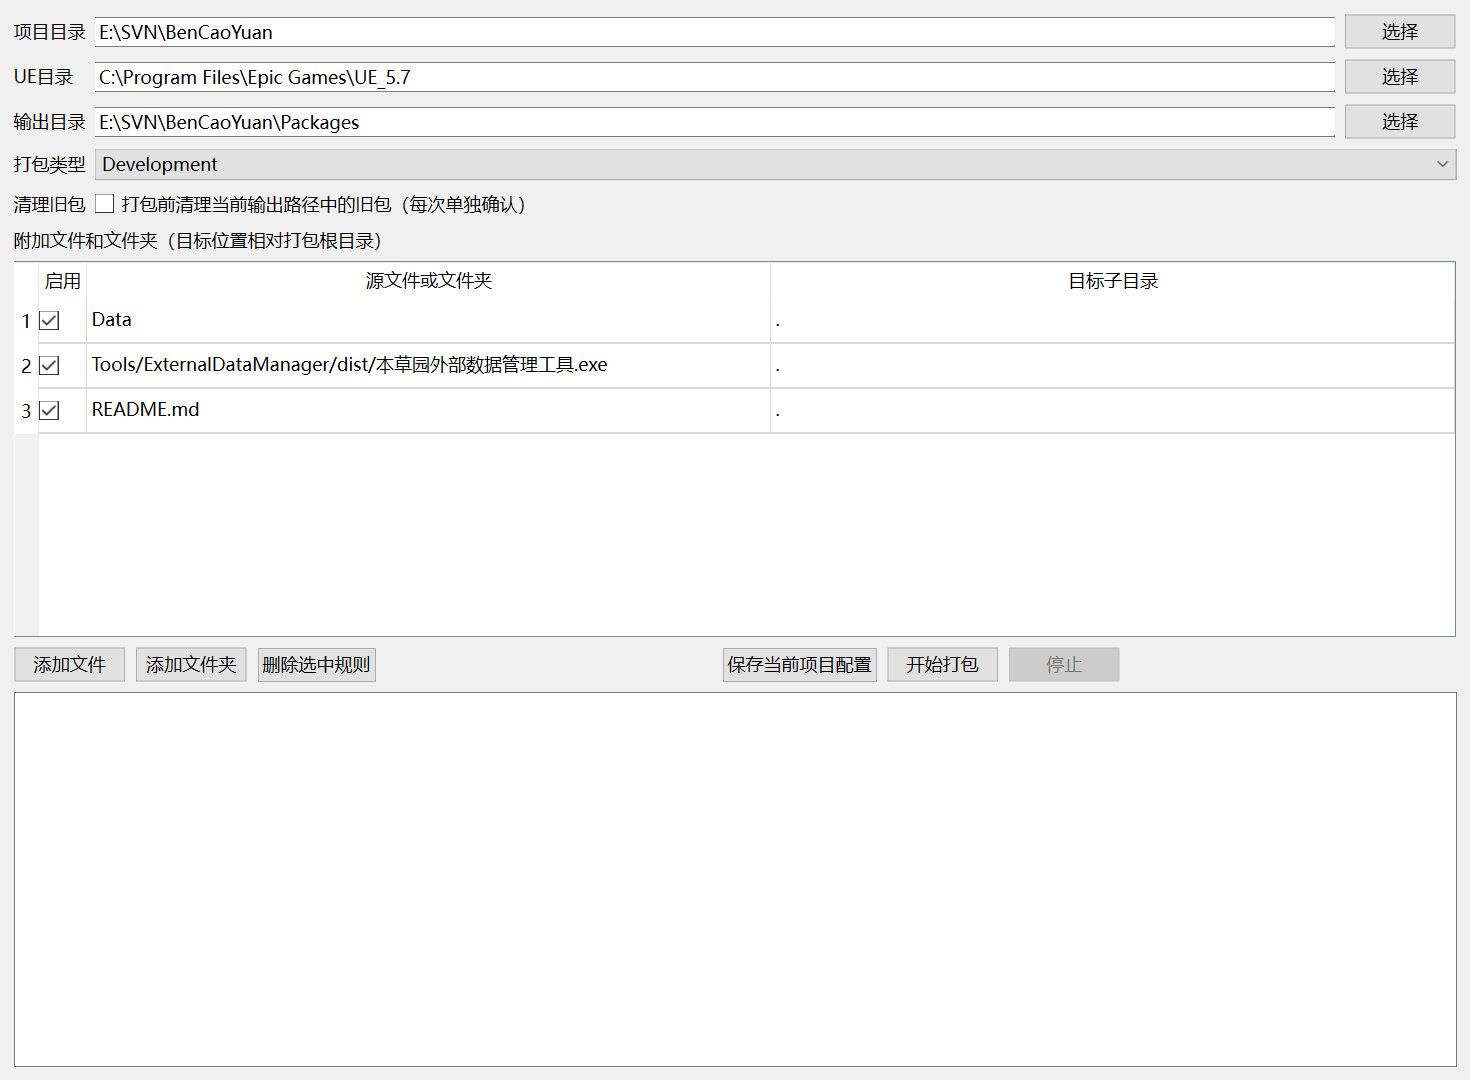
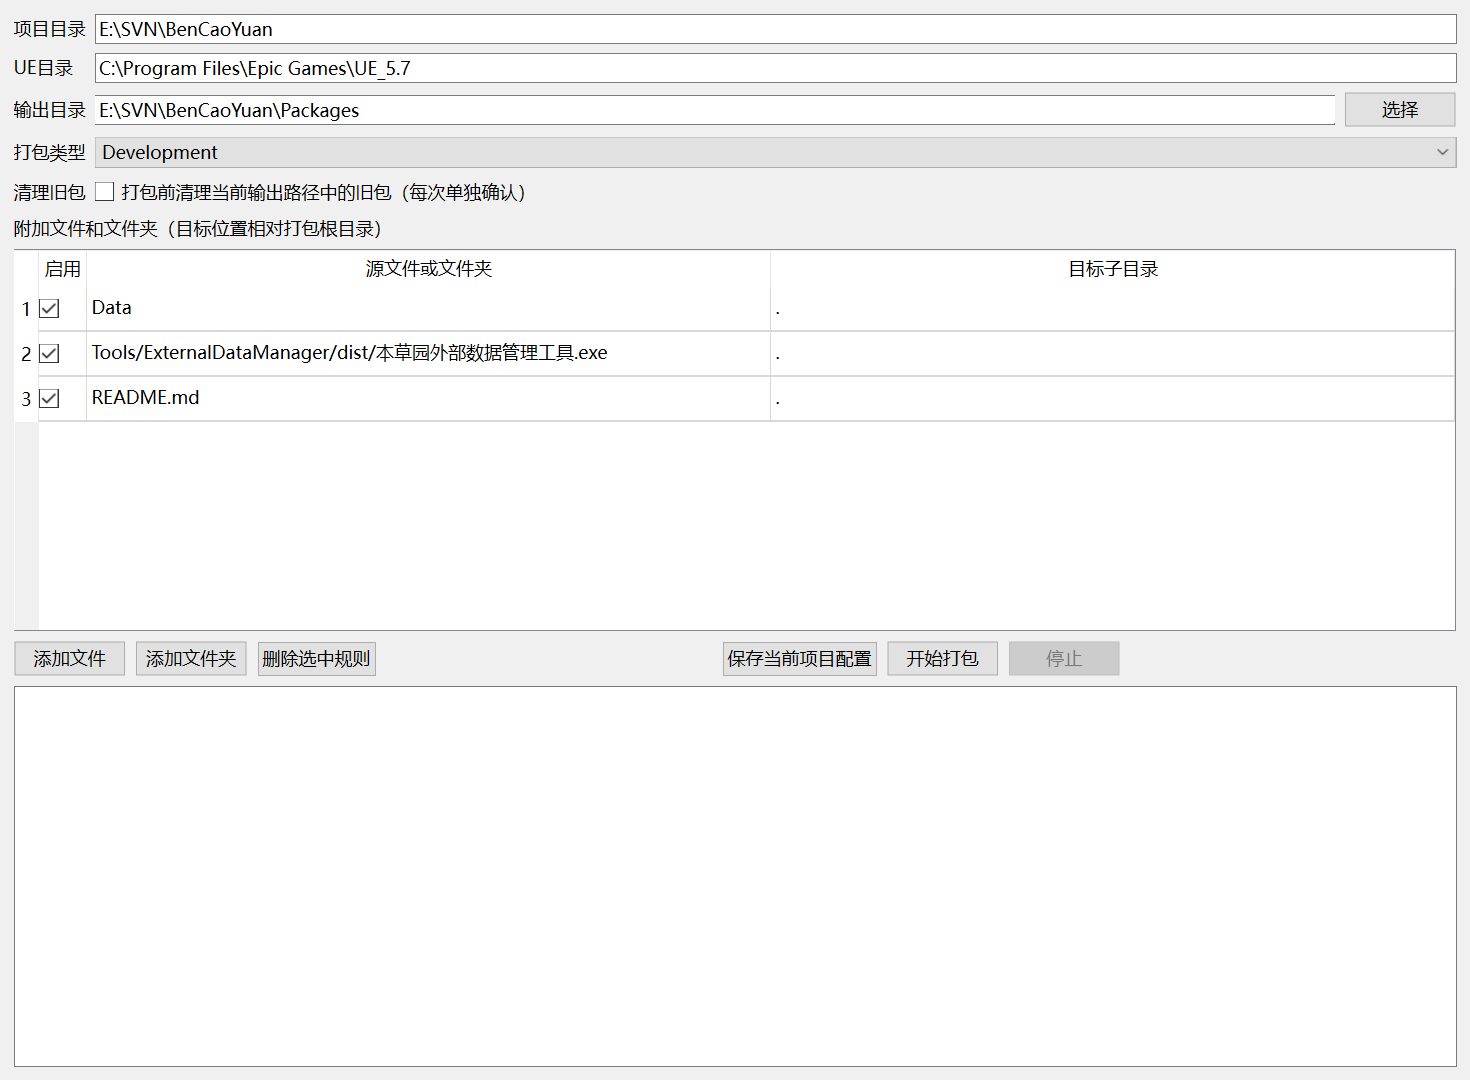
feat: 锁定GUI项目与引擎目录

diff --git a/Source/gui.py b/Source/gui.py
@@ -45,8 +45,13 @@ class MainWindow(QMainWindow):
         self.setWindowTitle("UE 项目打包工具")
         self.resize(980, 720)
         self.store = ProjectConfigStore()
-        initial_root = default_root or self.store.recent_project()
-        self.config = self.store.load(initial_root) if initial_root else ProjectConfig(project_root="")
+        self.config = self.store.load(default_root) if default_root else ProjectConfig(project_root="")
+        if self.config.project_root:
+            try:
+                self.config.engine_root = str(detect_engine_root(self.config.root_path))
+            except ValueError:
+                if self.config.engine_root:
+                    self.config.engine_root = str(detect_engine_root(self.config.root_path, self.config.engine_root))
         self.worker: PackageThread | None = None
         root = QWidget()
         self.setCentralWidget(root)
@@ -55,9 +60,10 @@ class MainWindow(QMainWindow):
         layout.addLayout(form)
         self.project = QLineEdit()
         self.project.setReadOnly(True)
-        form.addRow("项目目录", self._path_row(self.project, self._choose_project))
+        form.addRow("项目目录", self.project)
         self.engine = QLineEdit()
-        form.addRow("UE目录", self._path_row(self.engine, self._choose_engine))
+        self.engine.setReadOnly(True)
+        form.addRow("UE目录", self.engine)
         self.output_directory = QLineEdit()
         form.addRow("输出目录", self._path_row(self.output_directory, self._choose_output))
         self.configuration = QComboBox()
@@ -99,6 +105,8 @@ class MainWindow(QMainWindow):
         self.log.setReadOnly(True)
         layout.addWidget(self.log)
         self._load_config(self.config)
+        if not self.config.project_root:
+            self.log.append("未自动识别UE项目。请将EXE放到包含 .uproject 的项目根目录后重新启动。")
 
     @staticmethod
     def _path_row(field: QLineEdit, callback) -> QWidget:
@@ -148,20 +156,6 @@ class MainWindow(QMainWindow):
         self.rules.setItem(row, 1, QTableWidgetItem(rule.source))
         self.rules.setItem(row, 2, QTableWidgetItem(rule.target_directory))
 
-    def _choose_project(self) -> None:
-        filename, _ = QFileDialog.getOpenFileName(self, "选择 UE 项目", self.project.text(), "UE项目 (*.uproject)")
-        if filename:
-            try:
-                self._load_config(self.store.load(Path(filename).parent))
-                self.store.remember_project(Path(filename).parent)
-            except Exception as error:
-                QMessageBox.critical(self, "无法切换项目", str(error))
-
-    def _choose_engine(self) -> None:
-        directory = QFileDialog.getExistingDirectory(self, "选择 UE 根目录", self.engine.text())
-        if directory:
-            self.engine.setText(directory)
-
     def _choose_output(self) -> None:
         directory = QFileDialog.getExistingDirectory(self, "选择打包输出目录", self.output_directory.text())
         if directory:
@@ -188,7 +182,6 @@ class MainWindow(QMainWindow):
             validate_copy_rules(config)
             build_command(config)
             path = self.store.save(config)
-            self.store.remember_project(config.root_path)
             self.config = config
             self.log.append(f"配置已保存：{path}")
             return True

diff --git a/Tests/test_gui_buttons.py b/Tests/test_gui_buttons.py
@@ -35,11 +35,6 @@ with tempfile.TemporaryDirectory() as raw:
     project.mkdir()
     project_file = project / "Project A.uproject"
     project_file.write_text(json.dumps({"EngineAssociation": "5.7"}), encoding="utf-8")
-    second_project = root / "Project B"
-    second_project.mkdir()
-    second_project_file = second_project / "Project B.uproject"
-    second_project_file.write_text(json.dumps({"EngineAssociation": "5.7"}), encoding="utf-8")
-
     engine = root / "UE Test"
     run_uat = engine / "Engine" / "Build" / "BatchFiles" / "RunUAT.bat"
     run_uat.parent.mkdir(parents=True)
@@ -58,32 +53,35 @@ with tempfile.TemporaryDirectory() as raw:
 
     store = ProjectConfigStore(root / "LocalConfig")
     store.save(ProjectConfig(str(project), str(engine), str(output)))
-    store.save(ProjectConfig(str(second_project), str(engine), str(output)))
 
     application = QApplication.instance() or QApplication([])
+    empty_window = MainWindow(None)
+    assert not empty_window.project.text() and not empty_window.engine.text()
+    assert empty_window.project.isReadOnly() and empty_window.engine.isReadOnly()
+    assert not empty_window.start.isEnabled()
+    assert len([item for item in empty_window.findChildren(QPushButton) if item.text() == "选择"]) == 1
+    empty_window.close()
+
+    with patch("Source.gui.detect_engine_root", return_value=engine) as detect_engine:
+        automatic_window = MainWindow(project)
+    detect_engine.assert_called_once_with(project.resolve())
+    assert Path(automatic_window.project.text()) == project
+    assert Path(automatic_window.engine.text()) == engine
+    automatic_window.close()
+
     window = MainWindow(project)
     window.store = store
     window._load_config(store.load(project))
     window.show()
     application.processEvents()
 
-    select_buttons = sorted(
-        (item for item in window.findChildren(QPushButton) if item.text() == "选择"),
-        key=lambda item: item.mapTo(window, item.rect().topLeft()).y(),
-    )
-    assert len(select_buttons) == 3
-    with patch.object(QFileDialog, "getOpenFileName", return_value=(str(second_project_file), "")):
-        select_buttons[0].click()
-    assert Path(window.project.text()) == second_project
-    with patch.object(QFileDialog, "getOpenFileName", return_value=(str(project_file), "")):
-        select_buttons[0].click()
+    assert window.project.isReadOnly() and window.engine.isReadOnly()
+    select_buttons = [item for item in window.findChildren(QPushButton) if item.text() == "选择"]
+    assert len(select_buttons) == 1
     assert Path(window.project.text()) == project
-
-    with patch.object(QFileDialog, "getExistingDirectory", return_value=str(engine)):
-        select_buttons[1].click()
     assert Path(window.engine.text()) == engine
     with patch.object(QFileDialog, "getExistingDirectory", return_value=str(selected_output)):
-        select_buttons[2].click()
+        select_buttons[0].click()
     assert Path(window.output_directory.text()) == selected_output
 
     with patch.object(QFileDialog, "getOpenFileName", return_value=(str(extra_file), "")):

diff --git a/Source/config_store.py b/Source/config_store.py
@@ -35,34 +35,6 @@ class ProjectConfigStore:
             copy_rules=[],
         )
 
-    @property
-    def recent_path(self) -> Path:
-        return self.root.parent / "recent.json"
-
-    def recent_project(self) -> Path | None:
-        if not self.recent_path.is_file():
-            return None
-        try:
-            with self.recent_path.open("r", encoding="utf-8-sig") as stream:
-                data = json.load(stream)
-            if not isinstance(data, dict) or data.get("schema_version") != 1:
-                return None
-            value = data.get("project_root")
-            if not isinstance(value, str) or not value.strip():
-                return None
-            project_root = Path(value).resolve()
-            find_uproject(project_root)
-            return project_root
-        except (OSError, ValueError, json.JSONDecodeError):
-            return None
-
-    def remember_project(self, project_root: Path) -> Path:
-        root = project_root.resolve()
-        find_uproject(root)
-        self.recent_path.parent.mkdir(parents=True, exist_ok=True)
-        self._write_json(self.recent_path, {"schema_version": 1, "project_root": str(root)})
-        return self.recent_path
-
     def load(self, project_root: Path) -> ProjectConfig:
         root = project_root.resolve()
         path = self.path_for(root)

diff --git a/Source/cli.py b/Source/cli.py
@@ -18,7 +18,7 @@ def _add_project_argument(parser: argparse.ArgumentParser, default_root: Path | 
 
 def create_parser(default_root: Path | None) -> argparse.ArgumentParser:
     parser = argparse.ArgumentParser(description="UE 项目打包与附加文件部署工具")
-    parser.add_argument("--version", action="version", version="UEPackageManager 1.2.0")
+    parser.add_argument("--version", action="version", version="UEPackageManager 2.0.0")
     subparsers = parser.add_subparsers(dest="command", required=True)
     show = subparsers.add_parser("config-show", help="显示当前项目的本地配置")
     _add_project_argument(show, default_root)

diff --git a/Tests/test_package_manager.py b/Tests/test_package_manager.py
@@ -61,13 +61,6 @@ with tempfile.TemporaryDirectory() as raw:
     except ValueError:
         pass
     store.save(config_b)
-    assert store.recent_project() is None
-    store.remember_project(project_a)
-    assert store.recent_project() == project_a
-    store.recent_path.write_text('{"schema_version":1}', encoding="utf-8")
-    assert store.recent_project() is None
-    store.remember_project(project_a)
-
     engine = root / "UE Test 5.7"
     run_uat = engine / "Engine" / "Build" / "BatchFiles" / "RunUAT.bat"
     run_uat.parent.mkdir(parents=True)

diff --git a/README.md b/README.md
@@ -8,8 +8,8 @@
 
 - 双击EXE且不带参数：隐藏控制台并打开图形界面。
 - 在终端中带子命令运行：保留控制台和CLI输出。
-- EXE可放在任意目录；首次运行选择 `.uproject`。以后会打开上次选择的项目，但每个项目始终读取自己的独立配置。
-- 如果EXE位于项目根目录，或从项目根目录的终端启动，会自动识别该项目。
+- 将EXE放在包含 `.uproject` 的项目根目录并双击；项目与关联引擎会自动识别，GUI中不可选择或修改。
+- 从项目根目录的终端启动同样会自动识别；EXE放在其他目录时，GUI会拒绝打包并提示正确位置。
 - 当前EXE未进行商业代码签名；Windows首次运行可能显示SmartScreen提示，可使用Release附带的SHA-256文件核对下载完整性。
 
 ## 图形界面
@@ -18,8 +18,8 @@
 
 | 功能 | 作用 | 说明 |
 |---|---|---|
-| 项目 | 选择 `.uproject` | 切换项目时整体切换为该项目的独立配置 |
-| UE目录 | 指定Launcher或源码引擎根目录 | 留空时根据 `EngineAssociation` 自动检测 |
+| 项目 | 自动读取EXE或当前工作目录中的 `.uproject` | GUI只读，避免切换到其他项目 |
+| UE目录 | 根据 `EngineAssociation` 自动检测 | GUI只读；源码引擎可通过CLI配置 |
 | 输出目录 | 选择Archive输出位置 | 不允许直接使用项目根目录 |
 | 打包类型 | `DebugGame`、`Development`、`Test` 或 `Shipping` | Shipping额外启用压缩 |
 | 清理旧包 | 打包前清理当前输出路径中识别到的旧包 | 每次单独确认，不保存为项目默认值 |
@@ -35,7 +35,7 @@
 %LOCALAPPDATA%/UEPackageManager/Projects/<项目ID>/config.json
 ```
 
-项目路径、引擎目录、输出目录、打包类型和附加复制规则不会跨项目复用。工具另存一个 `recent.json`，只记录GUI上次打开的项目路径，不包含任何打包参数；CLI不会使用“最近项目”，无法从当前目录确定项目时必须显式传入 `--project-root`。
+项目路径、引擎目录、输出目录、打包类型和附加复制规则不会跨项目复用。GUI不读取“最近项目”，只绑定当前EXE或工作目录对应的项目；CLI无法从当前目录确定项目时必须显式传入 `--project-root`。
 
 ## CLI
 
@@ -58,8 +58,9 @@ UEPackageManager.exe package --project-root E:\Projects\MyGame
 ```bat
 conda env create -f environment.yml
 conda activate UEPackageManager
-python Main.py
-python Main.py validate --project-root E:\Projects\MyGame
+cd /d E:\Projects\MyGame
+python E:\Tools\UEPackageManager\Main.py
+python E:\Tools\UEPackageManager\Main.py validate --project-root E:\Projects\MyGame
 ```
 
 Windows也可双击 `Run.bat` 启动GUI，或使用 `CLI.bat` 运行命令。
